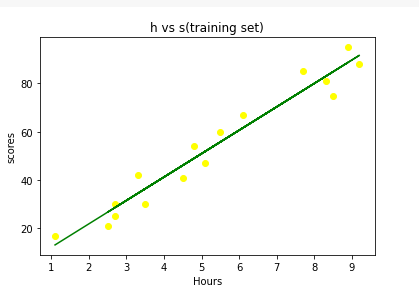
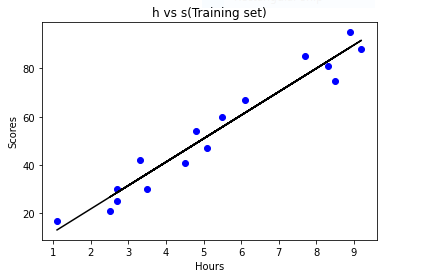
completed

Changed region(s): [[0.0, 0.0287, 0.8998, 0.9749], [0.3103, 0.5448, 0.3413, 0.6022], [0.1862, 0.7455, 0.2172, 0.7742]]

diff --git a/README.md b/README.md
@@ -1,7 +1,7 @@
 # Implementation-of-Linear-Regression-Using-Gradient-Descent
 
 ## AIM:
-To write a program to implement the simple linear regression model for predicting the marks scored.
+To write a program to implementation-of-Linear-Regression-Using-Gradient-Descent.
 
 ## Equipments Required:
 1. Hardware – PCs
@@ -18,7 +18,7 @@ To write a program to implement the simple linear regression model for predictin
 ## Program:
 ```
 /*
-Program to implement the simple linear regression model for predicting the marks scored.
+Program to implementation-of-Linear-Regression-Using-Gradient-Descent.
 Developed by: Iniyan S
 RegisterNumber:  212220040053
 */
@@ -26,37 +26,35 @@ RegisterNumber:  212220040053
 import numpy as np
 import pandas as pd
 import matplotlib.pyplot as plt
-dataset=pd.read_csv("/content/sample_data/student_scores.csv")
-dataset.head()
-X=dataset.iloc[:,:-1].values
-Y=dataset.iloc[:,1].values
+dataset=pd.read_csv("student_scores - student_scores.csv")
+dataset.head() #no need just for understand
+dataset.tail()  #no need just for understand
+X=dataset.iloc[:,:-1].values #assigning column scores to X
+y=dataset.iloc[:,1].values   #assigning column scores to y
 print(X)
-print(Y)
-from sklearn.model_selection import train_test_split
-X_train,X_test, Y_train,Y_test=train_test_split(X,Y,test_size=1/3,random_state=0)
-from sklearn .linear_model import LinearRegression 
+print(y)
+from sklearn.model_selection import  train_test_split
+X_train,X_test,y_train,y_test=train_test_split(X,y,test_size=1/3,random_state=0)
+from sklearn.linear_model import LinearRegression
 regressor=LinearRegression()
-regressor.fit(X_train,Y_train)
-LinearRegression()
-Y_pred=regressor.predict(X_test)
-plt.scatter(X_train,Y_train,color='yellow')
+regressor.fit(X_train,y_train)
+y_pred=regressor.predict(X_test)
+plt.scatter(X_train,y_train,color='blue')
+plt.plot(X_train,regressor.predict(X_train),color='black')
+plt.title("h vs s(Training set)")
+plt.xlabel("Hours")
+plt.ylabel("Scores")
+plt.show()
+plt.scatter(X_test,y_test,color='red')
 plt.plot(X_train,regressor.predict(X_train),color='green')
-plt.title("h vs s(training set)")
+plt.title("h vs s(Testing set)")
 plt.xlabel("Hours")
-plt.ylabel("scores")
+plt.ylabel("Scores")
 plt.show()
-plt.scatter(X_test,Y_test,color='blue')
-plt.plot(X_test,regressor.predict(X_test),color='green')
-plt.title("h vs s(training set)")
-plt.xlabel("Hours")
-plt.ylabel("scores")
-plt.show()
-dataset.tail()
-
 ```
 
 ## Output:
-![output 1](.\output1.PNG)
+![output 1](.\output1.png)
 ![output 2](.\output2.PNG)
 
 ## Result:
